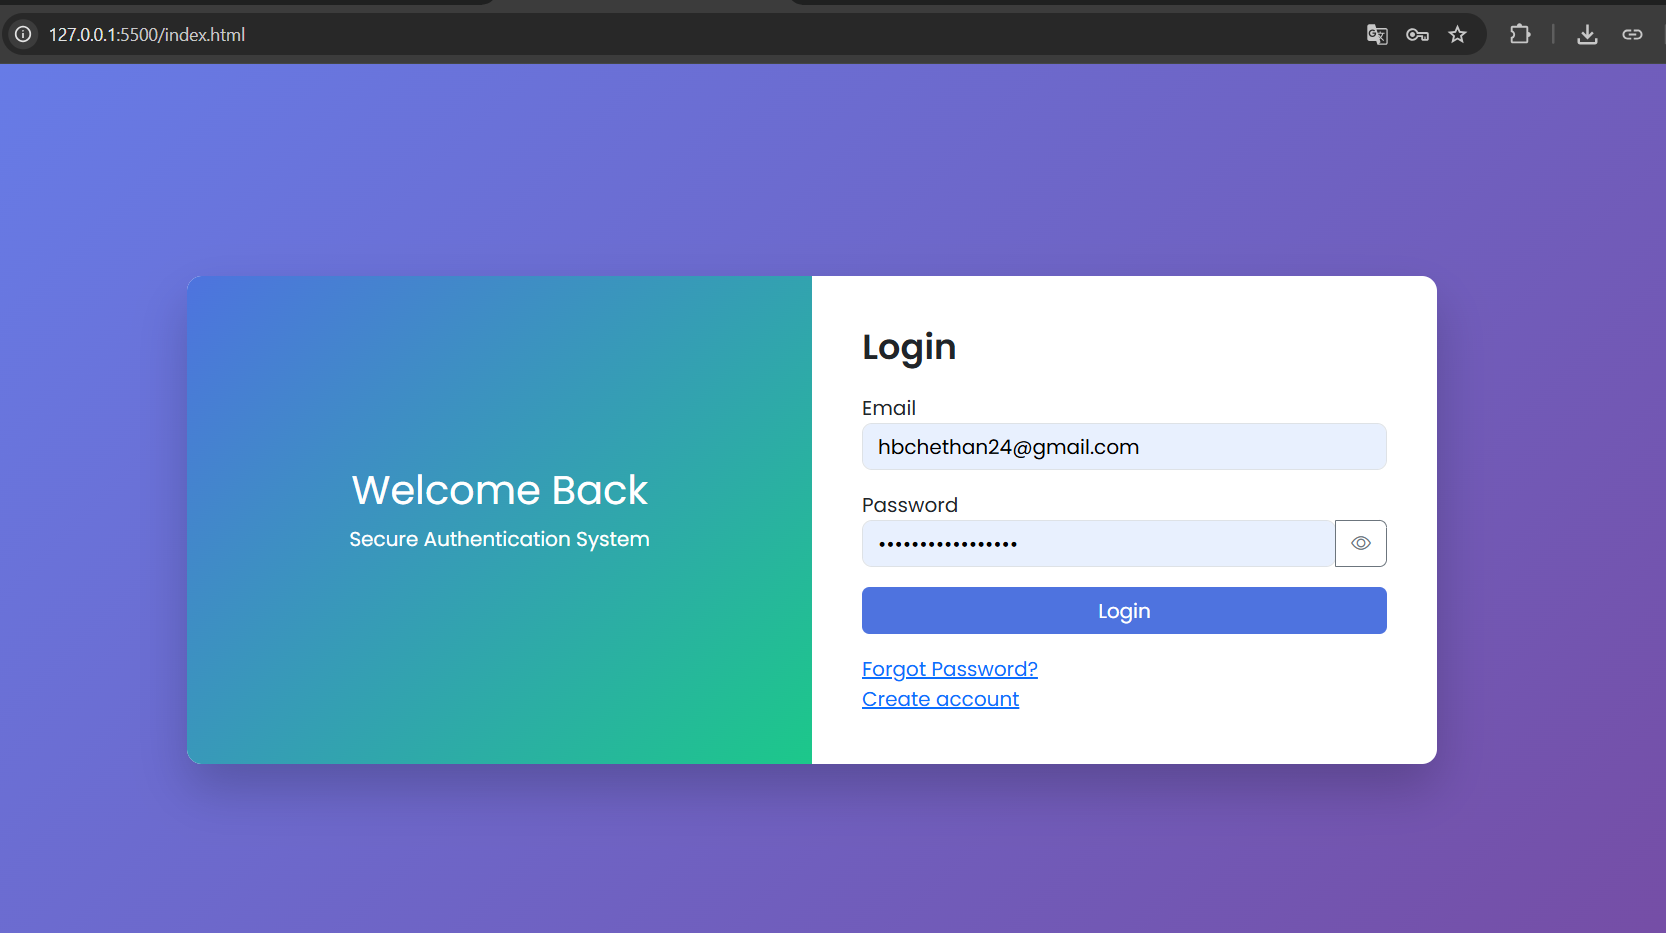
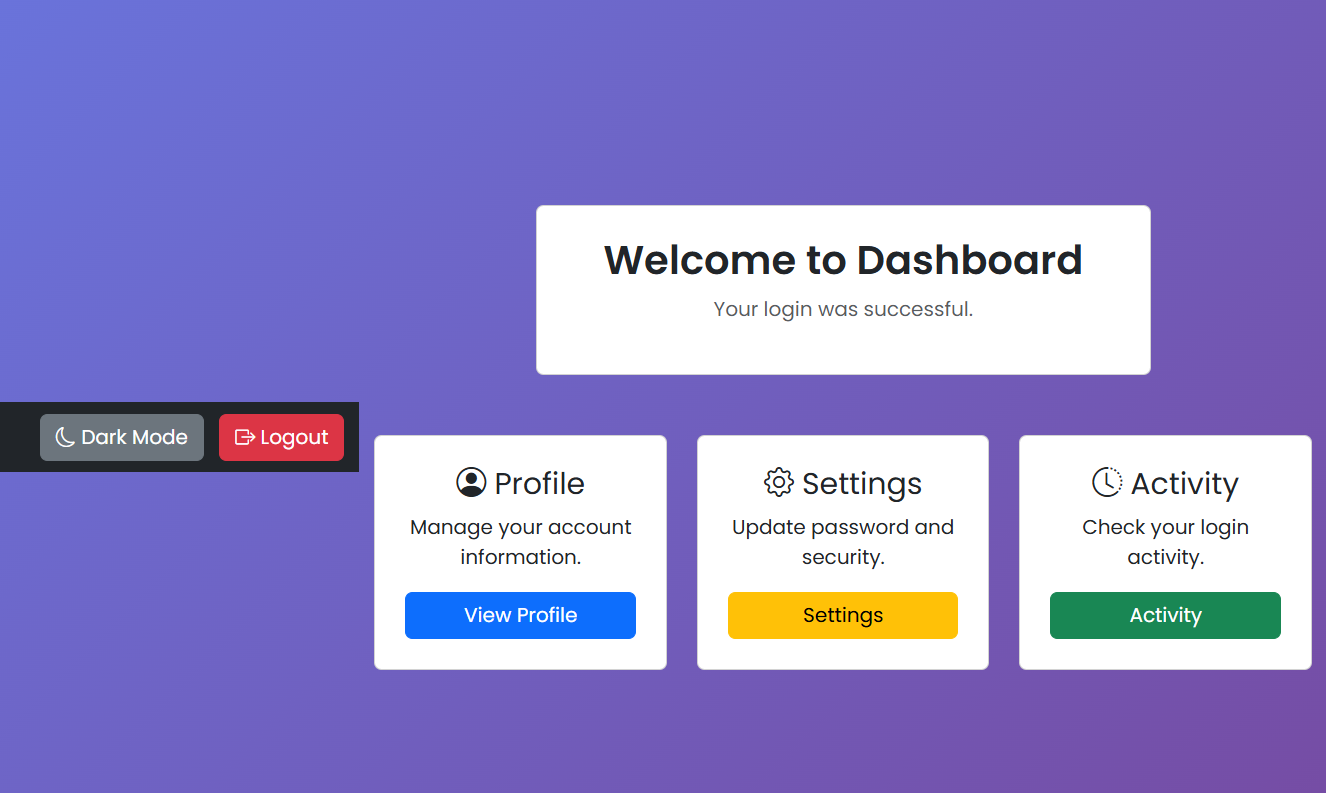
Updated Dashboard page

diff --git a/dashboard.html b/dashboard.html
@@ -8,30 +8,82 @@
       rel="stylesheet"
     />
 
+    <link
+      href="https://fonts.googleapis.com/css2?family=Poppins:wght@300;400;600&display=swap"
+      rel="stylesheet"
+    />
+
+    <!-- Bootstrap Icons -->
+    <link
+      href="https://cdn.jsdelivr.net/npm/bootstrap-icons/font/bootstrap-icons.css"
+      rel="stylesheet"
+    />
+
     <link rel="stylesheet" href="styles.css" />
   </head>
 
   <body>
-    <nav class="navbar navbar-dark bg-dark">
+    <!-- Navbar -->
+    <nav class="navbar navbar-dark bg-dark navbar-expand-lg w-100">
       <div class="container">
-        <a class="navbar-brand">Auth System</a>
+        <a class="navbar-brand fw-bold">Auth System</a>
 
-        <div>
+        <div class="ms-auto">
           <button onclick="toggleDark()" class="btn btn-secondary me-2">
-            Dark Mode
+            <i class="bi bi-moon"></i> Dark Mode
           </button>
 
-          <a href="index.html" class="btn btn-danger"> Logout </a>
+          <a href="index.html" class="btn btn-danger">
+            <i class="bi bi-box-arrow-right"></i> Logout
+          </a>
         </div>
       </div>
     </nav>
 
-    <div class="container mt-5 text-center">
-      <h2>Welcome to Dashboard</h2>
+    <!-- Main Container -->
+    <div class="container container-main">
+      <!-- Welcome Card -->
+      <div class="row justify-content-center mb-5">
+        <div class="col-md-8">
+          <div class="card p-4 text-center">
+            <h2 class="fw-bold">Welcome to Dashboard</h2>
+            <p class="text-muted">Your login was successful.</p>
+          </div>
+        </div>
+      </div>
 
-      <p>Your login was successful.</p>
+      <!-- Feature Cards -->
+      <div class="row g-4 justify-content-center">
+        <div class="col-md-4">
+          <div class="card p-4 text-center">
+            <h4><i class="bi bi-person-circle"></i> Profile</h4>
+            <p>Manage your account information.</p>
+            <button class="btn btn-primary w-100">View Profile</button>
+          </div>
+        </div>
+
+        <div class="col-md-4">
+          <div class="card p-4 text-center">
+            <h4><i class="bi bi-gear"></i> Settings</h4>
+            <p>Update password and security.</p>
+            <button class="btn btn-warning">Settings</button>
+          </div>
+        </div>
+
+        <div class="col-md-4">
+          <div class="card p-4 text-center">
+            <h4><i class="bi bi-clock-history"></i> Activity</h4>
+            <p>Check your login activity.</p>
+            <button class="btn btn-success">Activity</button>
+          </div>
+        </div>
+      </div>
     </div>
 
-    <script src="script.js"></script>
+    <script>
+      function toggleDark() {
+        document.body.classList.toggle("dark-mode");
+      }
+    </script>
   </body>
 </html>
